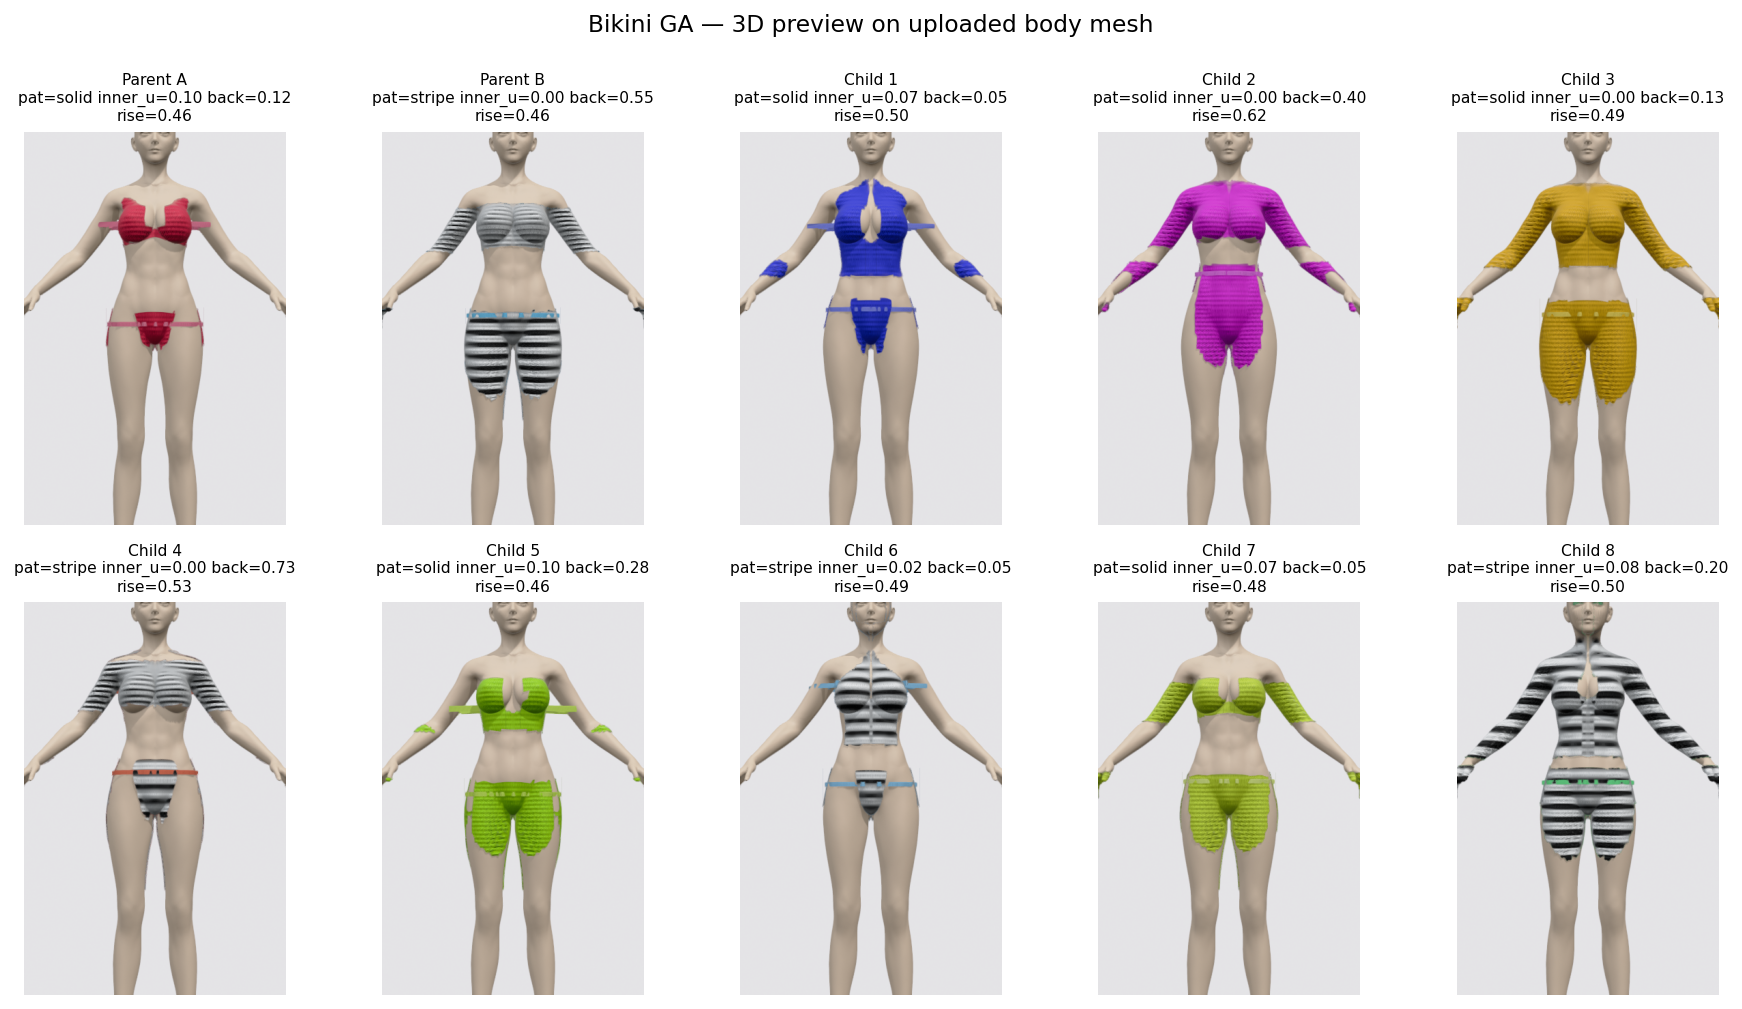
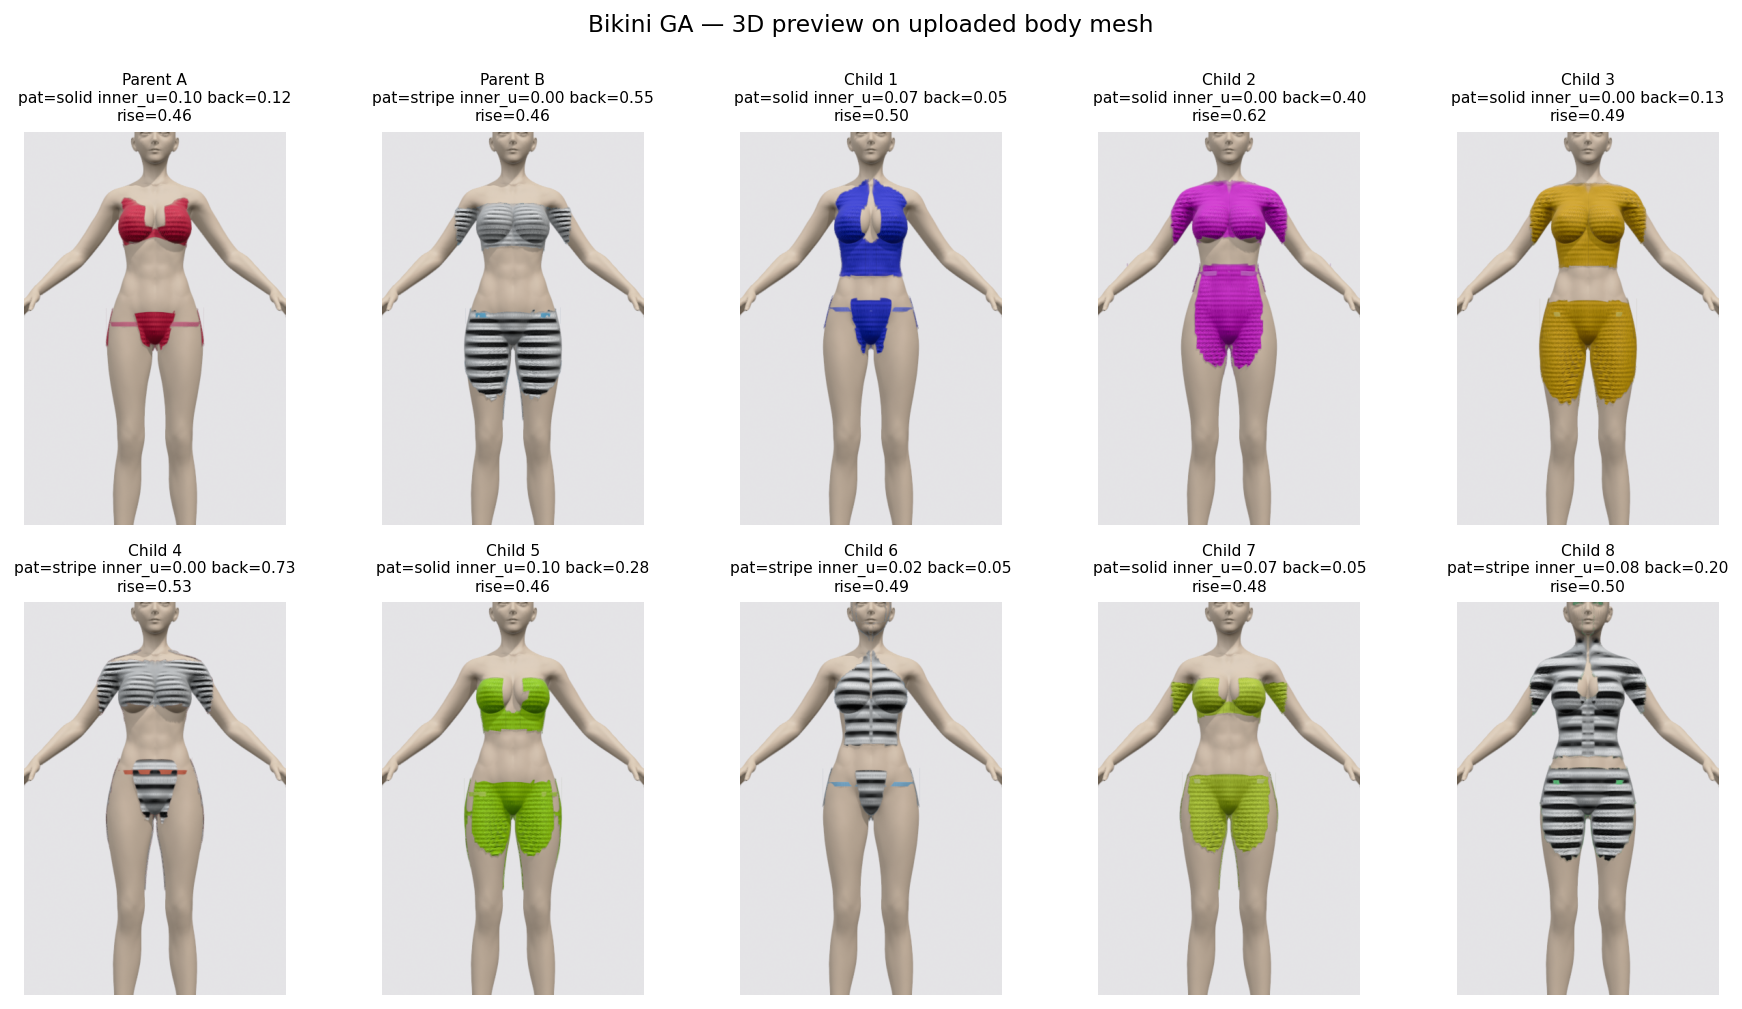
render3d: keep bikini geometry off the T-pose arms
Two places where bust-level cylindrical-u samples were picking up the
arm-root instead of the torso side, causing visible straps/fabric on
the forearms from the front view:

1. _body_ring() (back band): at theta~pi/2 the torso side (x=13) and
   arm-root (x=21) have identical cylindrical u, so argmin-on-angle
   was ambiguous. Pick the vertex with the smallest XZ radius among
   those within 0.12 rad of the target angle instead — guaranteed to
   hit the torso surface, not the arm. Also tighten max_torso_radius
   to 20 cm for the bust-level band.

2. build_fabric_shell(): a bandeau's UV polygon covers u in [-0.9, 0.9],
   which at bust Y includes both the torso sides AND the outstretched
   arms (same u). Add a per-triangle filter that requires the triangle
   centroid's XZ radius to be under max_torso_radius (20 cm), so arm
   triangles are excluded from the shell regardless of their UV.

diff --git a/tools/render3d_uv.py b/tools/render3d_uv.py
@@ -248,9 +248,12 @@ def _body_ring(body_vertices: np.ndarray, y_level: float, y_halfband: float,
                ) -> np.ndarray:
     """Sample the body's cross-section at y=y_level as a ring of points.
 
-    Filters out limb vertices (T-pose arms reach x=+-45 on this NPC) by
-    only keeping vertices within `max_torso_radius` of the body's vertical
-    axis in XZ.
+    At bust level the T-pose arm-root sits at the same Y and nearly the
+    same theta as the torso side, so a naive "vertex with closest angle"
+    pick may land on the arm root and push the back band onto the arm.
+    To avoid that: among vertices within an angular tolerance of each
+    target, pick the one with the SMALLEST XZ-plane radius — guaranteed
+    to be the torso surface, not an arm.
     """
     near = body_vertices[(body_vertices[:, 1] > y_level - y_halfband) &
                           (body_vertices[:, 1] < y_level + y_halfband)]
@@ -258,17 +261,21 @@ def _body_ring(body_vertices: np.ndarray, y_level: float, y_halfband: float,
         r = np.sqrt(near[:, 0] ** 2 + near[:, 2] ** 2)
         near = near[r < max_torso_radius]
     if len(near) < n_samples // 4:
-        # Not enough torso vertices in this band: fall back to anything in
-        # the y window so we still get a ring (will be approximate).
         near = body_vertices[(body_vertices[:, 1] > y_level - y_halfband) &
                               (body_vertices[:, 1] < y_level + y_halfband)]
 
     theta = np.arctan2(near[:, 0], near[:, 2])
+    r_xz = np.sqrt(near[:, 0] ** 2 + near[:, 2] ** 2)
     targets = np.linspace(-np.pi, np.pi, n_samples, endpoint=False)
+    angle_tol = 0.12  # rad; ~7 deg window around each target
     ring = []
     for t in targets:
         d = np.abs(np.mod(theta - t + np.pi, 2 * np.pi) - np.pi)
-        idx = int(np.argmin(d))
+        close = np.where(d < angle_tol)[0]
+        if len(close) > 0:
+            idx = close[np.argmin(r_xz[close])]
+        else:
+            idx = int(np.argmin(d))
         ring.append([near[idx, 0], y_level, near[idx, 2]])
     return np.array(ring, dtype=np.float32)
 
@@ -400,11 +407,13 @@ def build_strap_meshes(body_mesh: o3d.geometry.TriangleMesh, g,
 
     # 1) Top back band — horizontal ring at bust level, reaching from the
     #    right cup's outer edge, around the back, to the left cup's outer
-    #    edge (the arc that does NOT pass through the front).
+    #    edge (the arc that does NOT pass through the front). Tighter
+    #    torso-radius filter (20cm) so the arm-root at x~21 is excluded.
     cup_outer_u = g.top_inner_u + 2 * g.top_half_u
     band_y = v_to_y(g.top_center_v)
     band_h = max(1.2, 1.5 + 2.0 * g.top_back_coverage)   # thin: 1.5-3.5 cm
-    ring = _body_ring(V, band_y, y_halfband=3.0, n_samples=96)
+    ring = _body_ring(V, band_y, y_halfband=3.0, n_samples=96,
+                      max_torso_radius=20.0)
     back_band = _build_band_mesh(ring, band_h, offset=0.5,
                                   u_from=cup_outer_u, u_to=-cup_outer_u)
     straps.append(("top_back_band", back_band))
@@ -435,11 +444,17 @@ def build_strap_meshes(body_mesh: o3d.geometry.TriangleMesh, g,
 
 def build_fabric_shell(body_mesh: o3d.geometry.TriangleMesh, body_uvs: np.ndarray,
                        polys_uv: list[list[tuple[float, float]]],
-                       offset: float = 0.3) -> o3d.geometry.TriangleMesh:
+                       offset: float = 0.3,
+                       max_torso_radius: float = 20.0,
+                       ) -> o3d.geometry.TriangleMesh:
     """Build a thin fabric shell from the body's triangles that fall inside
     any Genome UV polygon. Each such triangle gets offset outward along its
     vertex normals by `offset` (cm). Carries the body's triangle-UV layout
     so it can reuse the bikini texture.
+
+    Triangles on the T-pose arms are excluded by a torso-radius filter —
+    arm and torso side vertices share the same cylindrical u so without
+    this filter a wide bandeau's shell extends onto the forearms.
     """
     from matplotlib.path import Path
 
@@ -464,6 +479,15 @@ def build_fabric_shell(body_mesh: o3d.geometry.TriangleMesh, body_uvs: np.ndarra
         inside_any |= path.contains_points(pts_g)
 
     tri_inside = inside_any.reshape(-1, 3).all(axis=1)
+
+    # Also require the triangle's centroid to be on the torso, not on an
+    # arm. On this T-pose mesh torso stays under r_xz ~18 cm; arms run out
+    # to ~45 cm at identical Y and cylindrical u, so without this filter a
+    # bandeau's shell would paint onto the forearms.
+    tri_xz = V[T][:, :, [0, 2]].mean(axis=1)
+    tri_r = np.sqrt(tri_xz[:, 0] ** 2 + tri_xz[:, 1] ** 2)
+    tri_inside &= tri_r < max_torso_radius
+
     if not tri_inside.any():
         return o3d.geometry.TriangleMesh()
 
